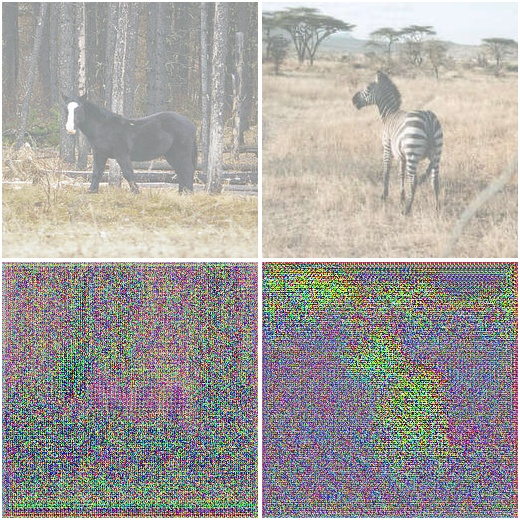
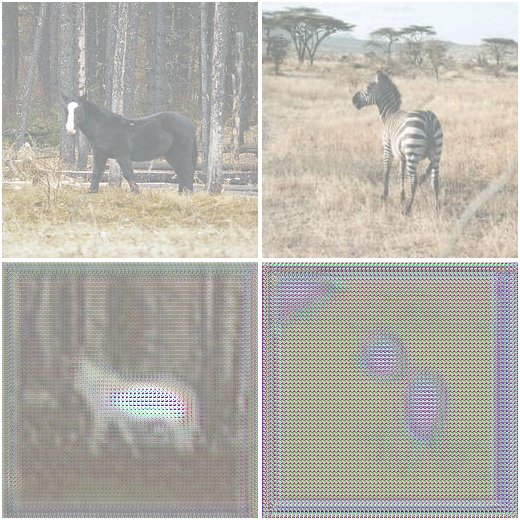
modify cycleGAN

diff --git a/CycleGAN/Sources/CycleGAN/main.swift b/CycleGAN/Sources/CycleGAN/main.swift
@@ -3,12 +3,14 @@ import Path
 import TensorFlow
 
 
-let learningRate: Float = 0.0002
-let batchSize = 16
+let learningRate: Float = 0.0001
+let beta1: Float = 0.5
+let batchSize = 4
 let testBachSize = 1
 let imgSize = 256
 let cycLambda: Float = 10
-let identityLambda: Float = 5
+let identityLambda: Float = 0.1
+
 let epochCount = 1000
 //let outputFolder = Path.cwd/"Output"
 let outputFolder = "./output/"
@@ -30,10 +32,11 @@ var discB = Discriminator()
 var genA2B = Generator()
 var genB2A = Generator()
 
-let optDiscA = Adam(for: discA, learningRate: learningRate, beta1: 0.5)
-let optDiscB = Adam(for: discB, learningRate: learningRate, beta1: 0.5)
-let optGenA2B = Adam(for: genA2B, learningRate: learningRate, beta1: 0.5)
-let optGenB2A = Adam(for: genB2A, learningRate: learningRate, beta1: 0.5)
+let optDiscA = Adam(for: discA, learningRate: learningRate, beta1: beta1)
+let optDiscB = Adam(for: discB, learningRate: learningRate, beta1: beta1)
+let optGenA2B = Adam(for: genA2B, learningRate: learningRate, beta1: beta1)
+let optGenB2A = Adam(for: genB2A, learningRate: learningRate, beta1: beta1)
+
 
 let testABatches = datasetA.testDataset.batched(testBachSize)
 let testBBatches = datasetB.testDataset.batched(testBachSize)
@@ -70,76 +73,59 @@ func saveImageGrid(_ testImage: Tensor<Float>, name: String) throws {
         name: name)
 }
 
-func train(minibatchA: Tensor<Float>, minibatchB: Tensor<Float>) -> (lossGA2B: Tensor<Float>, lossGB2A: Tensor<Float>, 
-                                            lossDiscA: Tensor<Float>, lossDiscB: Tensor<Float>){
+func train(minibatchA: Tensor<Float>, minibatchB: Tensor<Float>) -> (lossG: Tensor<Float>, lossD: Tensor<Float>){
 
     Context.local.learningPhase = .training
 
-    let genA2BOutput = genA2B(minibatchA)
-    let genB2AOutput = genB2A(minibatchB)
+     assert(minibatchA.shape == minibatchB.shape, "imageA (\(minibatchA.shape)) and imageB (\(minibatchB.shape)) batchSize missmatch")
 
-    let reconstructedA = genB2A(genA2BOutput)
-    let reconstructedB = genA2B(genB2AOutput)
+    let (lossG, (𝛁genA2B, 𝛁genB2A)) = valueWithGradient(at: genA2B, genB2A){ 
+        genA2B, genB2A -> Tensor<Float> in
+        let genA2BOutput = genA2B(minibatchA)
+        let genB2AOutput = genB2A(minibatchB)
 
-    let discAFakeOutput = discA(genB2AOutput)
-    let discBFakeOutput = discB(genA2BOutput)
+        let reconstructedA = genB2A(genA2BOutput)
+        let reconstructedB = genA2B(genB2AOutput)
 
+        let discAFakeOutput = discA(genB2AOutput)
+        let discBFakeOutput = discB(genA2BOutput)
 
-    let (lossGA2B, 𝛁genA2B) = genA2B.valueWithGradient { genA2B -> Tensor<Float> in
-            
-        let loss = generatorLoss(fakeLogits: discBFakeOutput) + 
+        let loss = generatorLoss(fakeLogits: discBFakeOutput) + generatorLoss(fakeLogits: discAFakeOutput) +
                 cycleConsistencyLoss(dataA: minibatchA,  dataB: minibatchB, reconstructedDataA: reconstructedA, 
                     reconstructedDataB: reconstructedB, cycLambda: cycLambda) + 
                 identityLoss(dataA: minibatchA, dataB: minibatchB,
                     genA2BOutput: genA2BOutput, genB2AOutput: genB2AOutput, identityLambda: identityLambda)
 
-            return loss
-        }
-        
-        optGenA2B.update(&genA2B, along: 𝛁genA2B)
-        
+        return loss
 
-        let (lossGB2A, 𝛁genB2A) = genB2A.valueWithGradient { genB2A -> Tensor<Float> in
+    }
 
-            let loss = generatorLoss(fakeLogits: discAFakeOutput) + 
-                cycleConsistencyLoss(dataA: minibatchA,  dataB: minibatchB, reconstructedDataA: reconstructedA, 
-                    reconstructedDataB: reconstructedB, cycLambda: cycLambda) + 
-                identityLoss(dataA: minibatchA, dataB: minibatchB,
-                    genA2BOutput: genA2BOutput, genB2AOutput: genB2AOutput, identityLambda: identityLambda)
+   
+    optGenA2B.update(&genA2B, along: 𝛁genA2B)
 
-            return loss
+    optGenB2A.update(&genB2A, along: 𝛁genB2A)
 
-        }
-        
-        optGenB2A.update(&genB2A, along: 𝛁genB2A)
-        
-        let genA2BFakeOutput = genA2B(minibatchA)
-        let genB2AFakeOutput = genB2A(minibatchB)
-       
+    let genA2BFakeOutput = genA2B(minibatchA)
+    let genB2AFakeOutput = genB2A(minibatchB)
 
-        let (lossDiscA, 𝛁discA) = discA.valueWithGradient { discA -> Tensor<Float> in 
+    let (lossD, (𝛁discA, 𝛁discB)) = valueWithGradient(at: discA, discB){
+        discA, discB -> Tensor<Float> in
+        let discARealOutput = discA(minibatchA)
+        let discAFakeOutput = discA(genB2AFakeOutput)
+        let discBRealOutput = discB(minibatchB)
+        let discBFakeOutput = discB(genA2BFakeOutput)
 
-            let discARealOutput = discA(minibatchA)
-            let discAFakeOutput = discA(genB2AFakeOutput)
-            let loss = discriminatorLoss(realLogits: discARealOutput, fakeLogits: discAFakeOutput)
-            return loss
-        }
+        let loss = discriminatorLoss(realLogits: discARealOutput, fakeLogits: discAFakeOutput) + 
+                        discriminatorLoss(realLogits: discBRealOutput, fakeLogits: discBFakeOutput)
 
-        optDiscA.update(&discA, along: 𝛁discA)
+        return loss
+    }
 
-        let (lossDiscB, 𝛁discB) = discB.valueWithGradient { discB -> Tensor<Float> in
+    optDiscB.update(&discB, along: 𝛁discB)
+    optDiscA.update(&discA, along: 𝛁discA)
 
-            let discBRealOutput = discB(minibatchB)
-            let discBFakeOutput = discB(genA2BFakeOutput)
-            let loss = discriminatorLoss(realLogits: discBRealOutput, fakeLogits: discBFakeOutput)
-            return loss
-        }
 
-        optDiscB.update(&discB, along: 𝛁discB)
-
-    
-
-    return (lossGA2B, lossGB2A, lossDiscA, lossDiscB)
+    return  (lossG, lossD)
 
 
 }
@@ -157,25 +143,21 @@ for epoch in 0...epochCount {
     let trainingBShuffled = datasetB.trainingDataset.shuffled(
         sampleCount: 1000, randomSeed: Int64(epoch))
 
-    var lossGenA2B: Tensor<Float> = Tensor<Float>(zeros: [1])
-    var lossGenB2A: Tensor<Float> = Tensor<Float>(zeros: [1])
-    var lossDiscA: Tensor<Float> = Tensor<Float>(zeros: [1])
-    var lossDiscB: Tensor<Float> = Tensor<Float>(zeros: [1])
-
+    var lossGen: Tensor<Float> = Tensor<Float>(zeros: [1])
+    var lossDisc: Tensor<Float> = Tensor<Float>(zeros: [1])
+ 
     for (batchA, batchB) in zip(trainingAShuffled.batched(batchSize), trainingBShuffled.batched(batchSize)){
 
         if batchA.data.shape != batchB.data.shape {
             break
         }
-        let (lossGA2B, lossGB2A, lossDA, lossDB) = train(minibatchA: batchA.data, minibatchB: batchB.data)
-        lossGenA2B = lossGenA2B.concatenated(with: lossGA2B.expandingShape(at:0))
-        lossGenB2A = lossGenB2A.concatenated(with: lossGB2A.expandingShape(at:0))
-        lossDiscA = lossDiscA.concatenated(with: lossDA.expandingShape(at:0))
-        lossDiscB = lossDiscB.concatenated(with: lossDB.expandingShape(at:0))
+        let (lossG, lossD) = train(minibatchA: batchA.data, minibatchB: batchB.data)
+        lossGen = lossGen.concatenated(with: lossG.expandingShape(at:0))
+        lossDisc = lossDisc.concatenated(with: lossD.expandingShape(at:0))
 
     }
 
-    print("[Epoch: \(epoch)] Loss-GenA: \(lossGenA2B.mean()) Loss-GenB: \(lossGenB2A.mean()) Loss-DiscA: \(lossDiscA.mean()) Loss-DiscB: \(lossDiscB.mean())")
+    print("[Epoch: \(epoch)] Loss-Gen: \(lossGen.mean()) Loss-Disc: \(lossDisc.mean())")
 
     if Int(epoch) % 10 == 0 {
         let testA = ittTestA.next()! 
